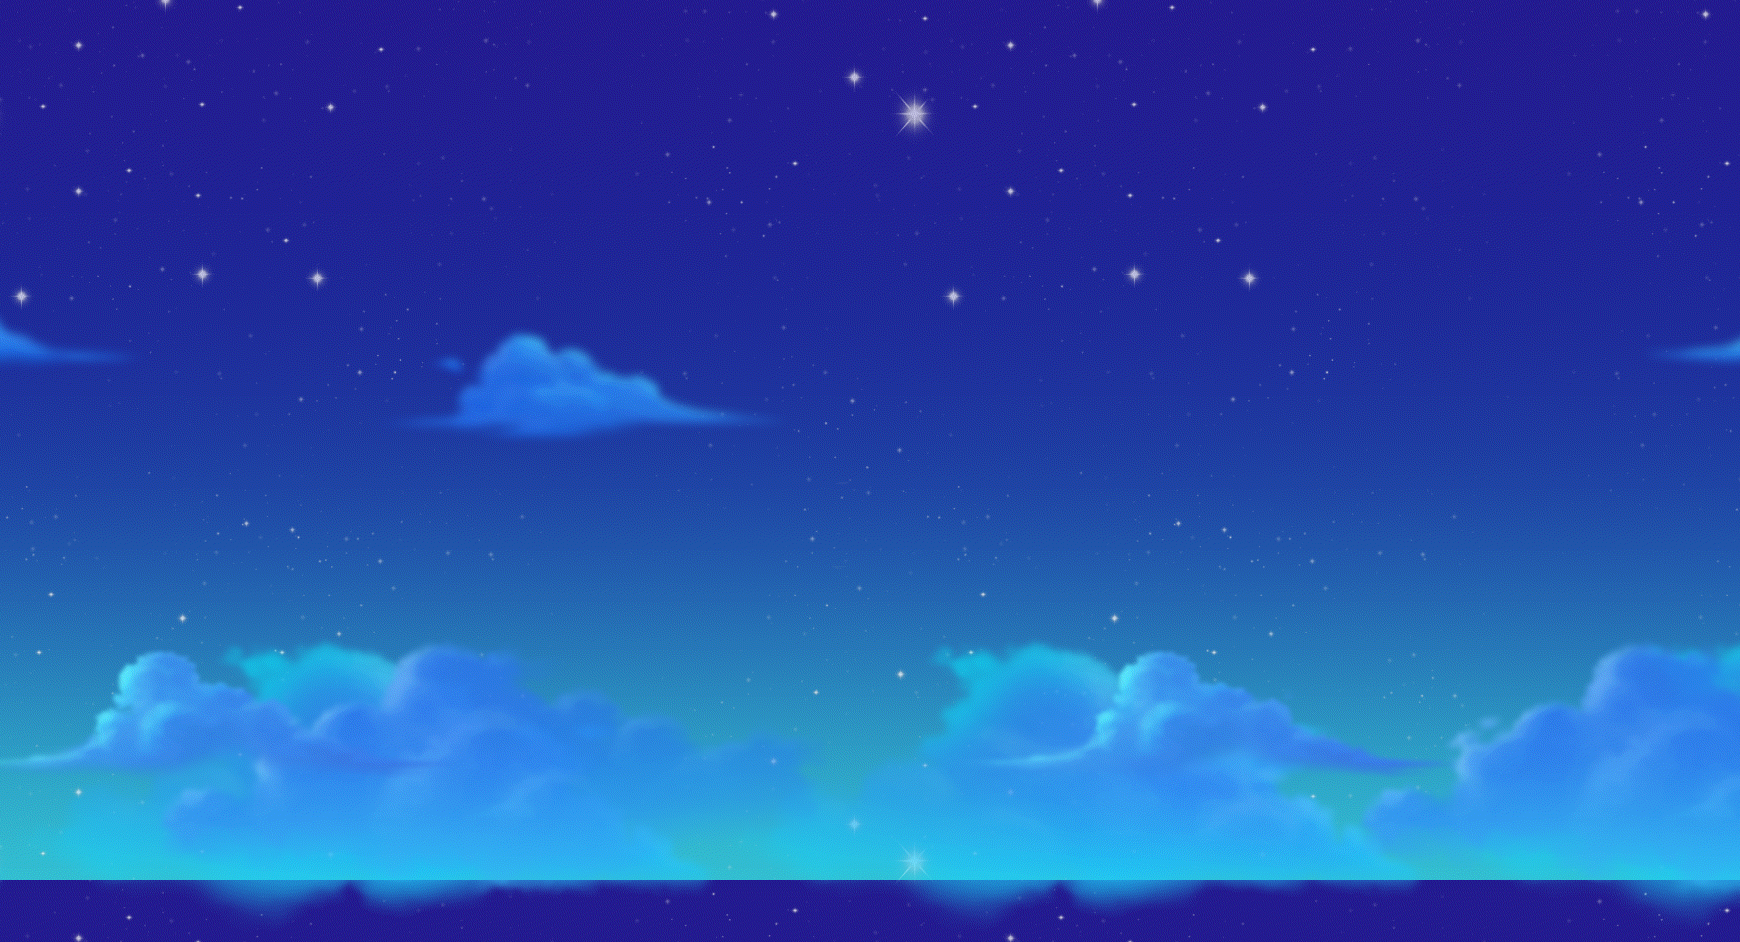
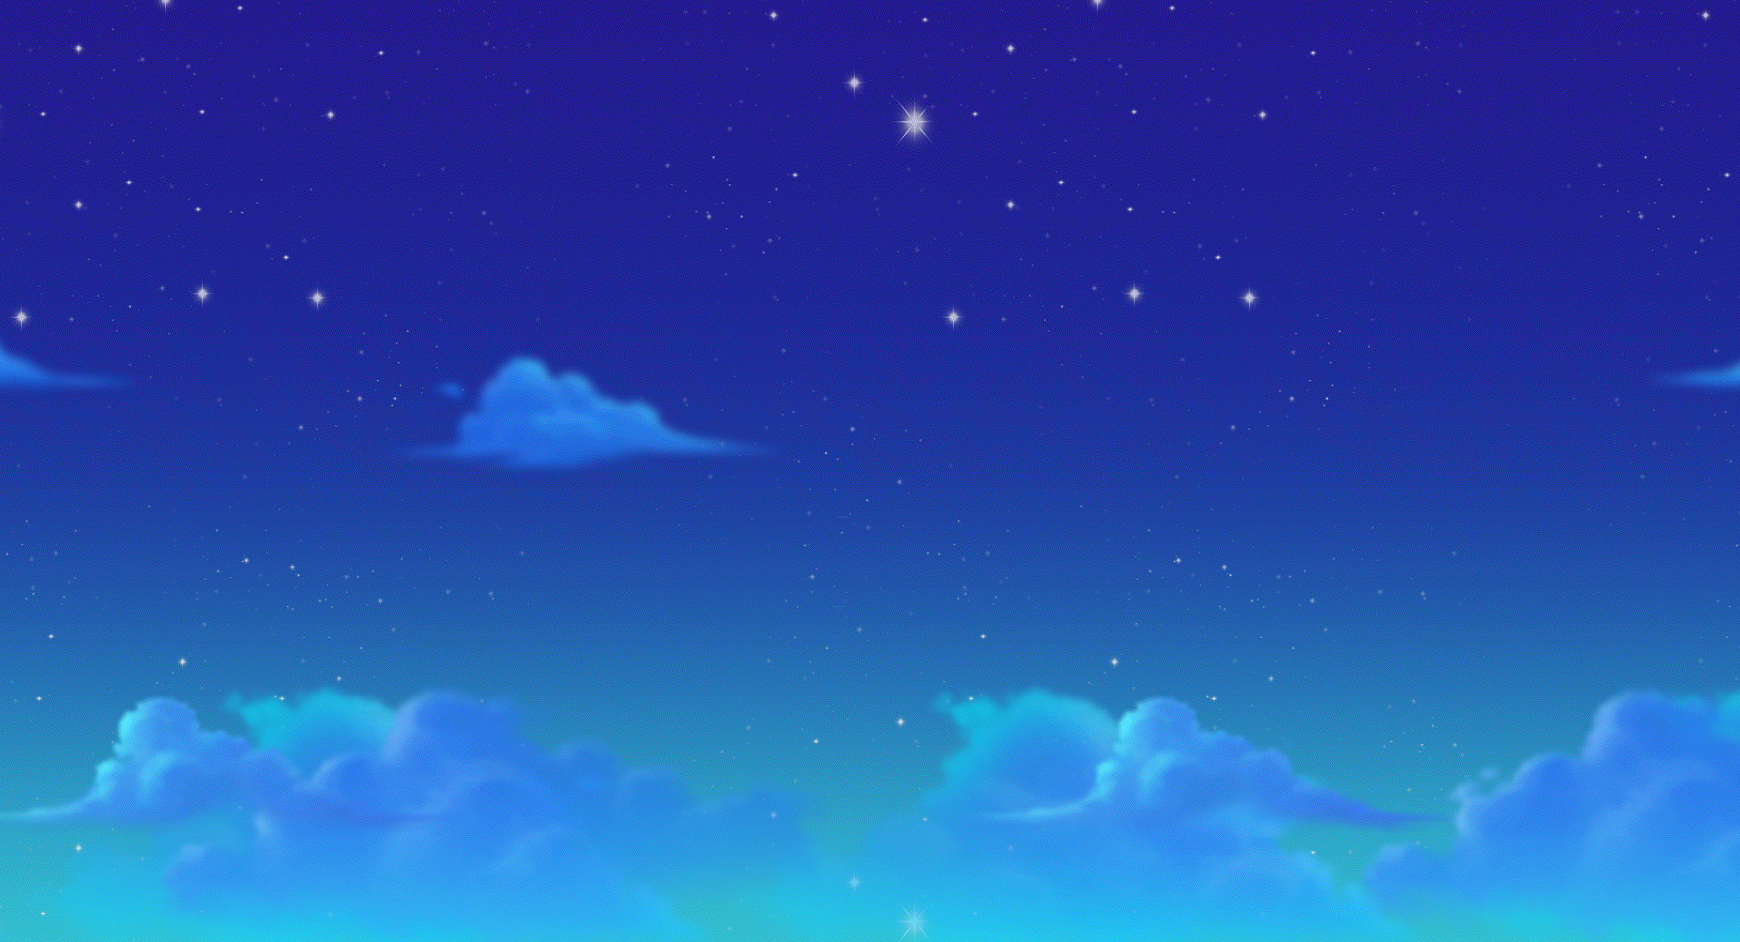
게임스테이트 화면이미지 추가

diff --git a/기말 프로젝트/background.py b/기말 프로젝트/background.py
@@ -1,0 +1,170 @@
+import gfw
+from pico2d import *
+from gobj import *
+
+class Background:
+    def __init__(self, imageName):
+        self.imageName = imageName
+        self.image = gfw.image.load(res(imageName))
+        self.target = None
+        self.cw, self.ch = get_canvas_width(), get_canvas_height()
+        self.win_rect = 0, 0, self.cw, self.ch
+        self.center = self.image.w // 2, self.image.h // 2
+        hw, hh = self.cw // 2, self.    ch // 2
+        self.boundary = hw, hh, self.image.w - hw, self.image.h - hh
+    def set_target(self, target):
+        self.target = target
+        self.update()
+    def draw(self):
+        self.image.clip_draw_to_origin(*self.win_rect, 0, 0)
+    def update(self):
+        if self.target is None:
+            return
+        tx, ty = self.target.pos
+        sl = round(tx - self.cw / 2)
+        sb = round(ty - self.ch / 2)
+        self.win_rect = sl, sb, self.cw, self.ch
+    def get_boundary(self):
+        return self.boundary
+    def translate(self, point):
+        x, y = point
+        l, b, r, t = self.win_rect
+        return l + x, b + y
+    def to_screen(self, point):
+        # return self.cw // 2, self.ch // 2
+        x, y = point
+        l, b, r, t = self.win_rect
+        return x - l, y - b
+
+    # def to_screen(self, point):
+    #     hw, hh = self.cw // 2, self.ch // 2
+    #     x, y = point
+
+    #     if x > self.image.w - hw:
+    #         x = self.cw - (self.image.w - x)
+    #     elif x > hw:
+    #         x = self.cw // 2
+
+    #     if y > self.image.h - hh:
+    #         y = self.ch - (self.image.h - y)
+    #     elif y > hh:
+    #         y = self.ch // 2
+
+    #     return x, y
+
+class FixedBackground(Background):
+    MARGIN_L, MARGIN_B, MARGIN_R, MARGIN_T = 20, 40, 20, 40
+    def __init__(self, imageName):
+        super().__init__(imageName)
+        self.boundary = (
+            FixedBackground.MARGIN_L, 
+            FixedBackground.MARGIN_B,
+            self.image.w - FixedBackground.MARGIN_R, 
+            self.image.h - FixedBackground.MARGIN_T
+        )
+    def update(self):
+        if self.target is None:
+            return
+        tx, ty = self.target.pos
+        sl = clamp(0, round(tx - self.cw / 2), self.image.w - self.cw)
+        sb = clamp(0, round(ty - self.ch / 2), self.image.h - self.ch)
+        self.win_rect = sl, sb, self.cw, self.ch
+
+class InfiniteBackground(Background):
+    def __init__(self, imageName, width=0, height=0):
+        super().__init__(imageName)
+        self.boundary = (-sys.maxsize, -sys.maxsize, sys.maxsize, sys.maxsize)
+        self.fix_x, self.fix_y = self.cw // 2, self.ch // 2
+        if width == 0:
+            width = self.image.w
+        if height == 0:
+            height = self.image.h
+        self.w, self.h = width, height
+    def set_fixed_pos(self, x, y):
+        self.fix_x, self.fix_y = x, y
+    def update(self):
+        if self.target is None:
+            return
+        tx, ty = self.target.pos
+
+        # quadrant 3
+        q3l = round(tx - self.fix_x) % self.image.w
+        q3b = round(ty - self.fix_y) % self.image.h
+        q3w = clamp(0, self.image.w - q3l, self.image.w)
+        q3h = clamp(0, self.image.h - q3b, self.image.h)
+        self.q3rect = q3l, q3b, q3w, q3h
+        # quadrant 2
+        self.q2rect = q3l, 0, q3w, self.ch - q3h
+        self.q2origin = 0, q3h
+        # quadrant 4
+        self.q4rect = 0, q3b, self.cw - q3w, q3h
+        self.q4origin = q3w, 0
+        # quadrant 1
+        self.q1rect = 0, 0, self.cw - q3w, self.ch - q3h
+        self.q1origin = q3w, q3h
+
+    def draw(self):
+        self.image.clip_draw_to_origin(*self.q3rect, 0, 0)
+        self.image.clip_draw_to_origin(*self.q2rect, *self.q2origin)
+        self.image.clip_draw_to_origin(*self.q4rect, *self.q4origin)
+        self.image.clip_draw_to_origin(*self.q1rect, *self.q1origin)
+
+    def to_screen(self, point):
+        x, y = point
+        tx, ty = self.target.pos
+        return self.fix_x + x - tx, self.fix_y + y - ty
+
+    def translate(self, point):
+        x, y = point
+        tx, ty = self.target.pos
+        dx, dy = x - self.fix_x, y - self.fix_y
+        return tx + dx, ty + dy
+
+class HorzScrollBackground:
+    def __init__(self, imageName, speed):
+        self.imageName = imageName
+        self.image = gfw.image.load(res(imageName))
+        self.cw, self.ch = get_canvas_width(), self.image.h // 2
+        self.scroll = 0
+        self.speed = speed
+
+    def update(self):
+        self.scroll += self.speed * gfw.delta_time
+
+    def set_scroll(self, scroll):
+        self.scroll = scroll
+
+    def draw(self):
+        left, bottom = 0, 0
+        page = self.image.w * self.ch // self.image.h
+        curr = int(-self.scroll) % page
+        if curr > 0:
+            sw = int(1 + self.image.h * curr / self.ch)
+            sl = self.image.w - sw
+            src = sl, 0, sw, self.image.h
+            dw = int(sw * self.ch / self.image.h)
+            dst = curr - dw, 0, dw, self.ch
+            self.image.clip_draw_to_origin(*src, *dst)
+        dst_width = round(self.image.w * self.ch / self.image.h)
+        while curr + dst_width < self.cw:
+            dst = curr, 0, dst_width, self.ch
+            self.image.draw_to_origin(*dst)
+            curr += dst_width
+        if curr < self.cw:
+            dw = self.cw - curr
+            sw = int(1 + self.image.h * dw / self.ch)
+            src = 0, 0, sw, self.image.h
+            dw = int(sw * self.ch / self.image.h)
+            dst = curr, 0, dw, self.ch
+            self.image.clip_draw_to_origin(*src, *dst)
+
+    def to_screen(self, point):
+        x, y = point
+        return x - self.scroll, y
+
+    def translate(self, point):
+        x, y = point
+        return x + self.scroll, y
+
+    def get_boundary(self):
+        return (-sys.maxsize, -sys.maxsize, sys.maxsize, sys.maxsize)

diff --git a/기말 프로젝트/player.py b/기말 프로젝트/player.py
@@ -1,0 +1,80 @@
+from pico2d import *
+import gfw
+
+MOVE_PPS = 300
+MAX_LIFE = 5
+SCORE_TEXT_COLOR = (255, 255, 255)
+
+class Player:
+    def __init__(self):        
+        self.image = gfw.image.load('res/player.png')
+        #self.font = gfw.font.load('res/ConsolaMalgun.ttf', 35)        
+        #self.radius = self.image.h // 2        
+        #self.heart_red = gfw.image.load('res/heart_red.png')
+        #self.heart_white = gfw.image.load('res/heart_white.png')
+        self.reset()
+        
+        global BOUNDARY_LEFT, BOUNDARY_RIGHT, BOUNDARY_DOWN, BOUNDARY_UP
+        BOUNDARY_LEFT = self.image.w // 2
+        BOUNDARY_DOWN = self.image.h // 2
+        BOUNDARY_RIGHT = get_canvas_width() - BOUNDARY_LEFT
+        BOUNDARY_UP = get_canvas_height() - BOUNDARY_DOWN
+
+        Player.player = self
+
+    def reset(self):
+        self.pos = get_canvas_width() // 2, get_canvas_height() // 2
+        self.dx, self.dy = 0, 0
+        self.life = MAX_LIFE
+        #self.score = 0
+        
+    def update(self):
+        #self.score += gfw.delta_time
+        x,y = self.pos
+        x += self.dx * MOVE_PPS * gfw.delta_time
+        y += self.dy * MOVE_PPS * gfw.delta_time
+        x = clamp(BOUNDARY_LEFT, x, BOUNDARY_RIGHT)
+        y = clamp(BOUNDARY_DOWN, y, BOUNDARY_UP)
+        self.pos = x, y
+
+    def draw(self):
+        self.image.draw(*self.pos)
+        #x = get_canvas_width() - 30
+        #y = get_canvas_height() - 30
+        #for i in range(MAX_LIFE):
+            #heart = self.heart_red if i < self.life else self.heart_white
+            #heart.draw(x, y)
+            #x -= heart.w
+        #pos = 30, get_canvas_height() - 30
+        #self.font.draw(*pos, 'Score: %.1f' % self.score, SCORE_TEXT_COLOR)
+
+    def apply_item(self, item):
+        if self.life == MAX_LIFE:
+            self.score += item.score
+            return True
+        self.life += 1
+        return False
+
+    def decreate_life(self):
+        self.life -= 1
+        return self.life <= 0
+
+    def handle_event(self, e):        
+        if e.type == SDL_KEYDOWN:
+            if e.key == SDLK_LEFT:
+                self.dx -= 1
+            elif e.key == SDLK_RIGHT:
+                self.dx += 1
+            elif e.key == SDLK_DOWN:
+                self.dy -= 1
+            elif e.key == SDLK_UP:
+                self.dy += 1
+        elif e.type == SDL_KEYUP:
+            if e.key == SDLK_LEFT:
+                self.dx += 1
+            elif e.key == SDLK_RIGHT:
+                self.dx -= 1
+            elif e.key == SDLK_DOWN:
+                self.dy += 1
+            elif e.key == SDLK_UP:
+                self.dy -= 1

diff --git a/기말 프로젝트/gobj.py b/기말 프로젝트/gobj.py
@@ -1,18 +1,77 @@
+import random
 from pico2d import *
+import gfw
 
-RES_DIR = 'res'
+RES_DIR = 'res/'
 
 def res(file):
-    return RES_DIR + '/' + file
+    return RES_DIR + file
 
-class Background:
-    def __init__(self):
-        self.image = load_image(RES_DIR + '/backgroung_1740x942.png')
+def rand(val):
+    return val * random.uniform(0.9, 1.1)
+
+def point_add(point1, point2):
+    x1,y1 = point1
+    x2,y2 = point2
+    return x1+x2, y1+y2
+
+def move_obj(obj):
+    obj.pos = point_add(obj.pos, obj.delta)
+
+def collides_box(a, b):
+	(la, ba, ra, ta) = a.get_bb()
+	(lb, bb, rb, tb) = b.get_bb()
+
+	if la > rb: return False
+	if ra < lb: return False
+	if ba > tb: return False
+	if ta < bb: return False
+
+	return True
+
+def distance_sq(point1, point2):
+    x1,y1 = point1
+    x2,y2 = point2
+    return (x1-x2)**2 + (y1-y2)**2
+
+def distance(point1, point2):
+	math.sqrt(distance_sq(point1, point2))
+	
+def draw_collision_box():
+	for obj in gfw.world.all_objects():
+		if hasattr(obj, 'get_bb'):
+			draw_rectangle(*obj.get_bb())
+
+def mouse_xy(event):
+    return event.x, get_canvas_height() - event.y - 1
+
+def pt_in_rect(point, rect):
+    (x, y) = point
+    (l, b, r, t) = rect
+
+    if x < l: return False
+    if x > r: return False
+    if y < b: return False
+    if y > t: return False
+
+    return True
+
+class ImageObject:
+    def __init__(self, imageName, pos):
+        self.imageName = imageName
+        self.image = gfw.image.load(res(imageName))
+        self.pos = pos
     def draw(self):
-        self.image.draw(870, 460, 1740,920)
+        self.image.draw(*self.pos)
     def update(self):
         pass
-
+    def __getstate__(self):
+        dict = self.__dict__.copy()
+        del dict['image']
+        return dict
+    def __setstate__(self, dict):
+        self.__dict__.update(dict)
+        self.image = gfw.image.load(res(self.imageName))
 
 if __name__ == "__main__":
-    print("Running test code ^_^")
+	print("This file is not supposed to be executed directly.")

diff --git a/기말 프로젝트/game_state.py b/기말 프로젝트/game_state.py
@@ -1,16 +1,23 @@
 import gfw
 from pico2d import *
 from gobj import *
+import gobj
+from background import Background,HorzScrollBackground
 
 def enter():
-    global background
-    background = Background()
+    gfw.world.init(['bg1', 'bg2'])
+    bg1 = Background('backgroung_1740x942.png')    
+    gfw.world.add(gfw.layer.bg1, bg1)
+
+    bg2 = HorzScrollBackground('clouds.png',15)
+    bg2.set_scroll(50)
+    gfw.world.add(gfw.layer.bg2, bg2)
 
 def update():
-    pass
+    gfw.world.update()
 
 def draw():
-    background.draw()
+    gfw.world.draw()
 
 def handle_event(e):
     if e.type == SDL_QUIT:

diff --git a/기말 프로젝트/title_state.py b/기말 프로젝트/title_state.py
@@ -3,7 +3,7 @@ from pico2d import *
 import game_state
 
 canvas_width = 1740
-canvas_height = 920
+canvas_height = 942
 
 def enter():
     global image
